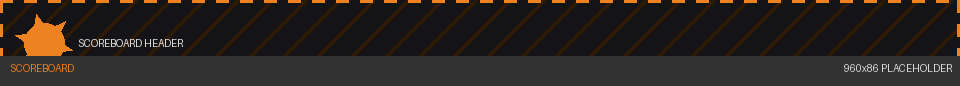
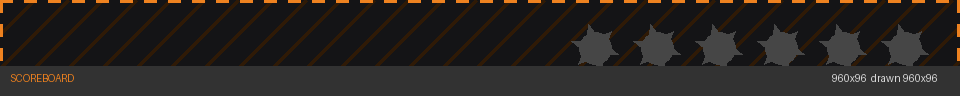
more stuff

diff --git a/tools/placeholders.py b/tools/placeholders.py
@@ -52,13 +52,16 @@ def caption(draw, w, h, title, spec, accent):
     draw.text((w - 8 - len(spec) * 6, h - 24), spec, fill=TEXT)
 
 
-def banner(path, title, accent, painter, w=640, h=300):
+def banner(path, title, accent, painter, w=820, h=264, drawn=None):
     img = Image.new("RGBA", (w, h), DARK)
     d = ImageDraw.Draw(img)
     stripes(d, w, h, (accent[0] // 5, accent[1] // 5, accent[2] // 5, 255))
     painter(d, w, h, accent)
     dashed(d, w, h, accent)
-    caption(d, w, h, title, "%dx%d PLACEHOLDER" % (w, h), accent)
+    spec = "%dx%d" % (w, h)
+    if drawn:
+        spec = spec + "  drawn %dx%d" % drawn
+    caption(d, w, h, title, spec, accent)
     img.save(path, optimize=True)
     print("  %-26s %dx%d" % (os.path.basename(path), w, h))
 
@@ -87,8 +90,8 @@ def paint_lots(d, w, h, accent):
 
 
 def paint_header(d, w, h, accent):
-    mine(d, 44, h // 2, 20, accent)
-    d.text((78, h // 2 - 6), "SCOREBOARD HEADER", fill=TEXT)
+    for i in range(6):
+        mine(d, int(w * 0.62 + i * 62), h // 2, 16, (70, 70, 70, 255))
 
 
 def icon(path, size, label, painter, accent):
@@ -128,12 +131,13 @@ def main():
     os.makedirs(UI, exist_ok=True)
 
     print("gametype banners")
-    banner(os.path.join(MATS, "gt_dm.png"), "DEATHMATCH", (238, 130, 32, 255), paint_dm)
-    banner(os.path.join(MATS, "gt_tdm.png"), "TEAM DEATHMATCH", (80, 160, 245, 255), paint_tdm)
-    banner(os.path.join(MATS, "gt_lots.png"), "LAST ONE TO STAND", (215, 70, 60, 255), paint_lots)
+    shot = (410, 132)
+    banner(os.path.join(MATS, "gt_dm.png"), "DEATHMATCH", (238, 130, 32, 255), paint_dm, drawn=shot)
+    banner(os.path.join(MATS, "gt_tdm.png"), "TEAM DEATHMATCH", (80, 160, 245, 255), paint_tdm, drawn=shot)
+    banner(os.path.join(MATS, "gt_lots.png"), "LAST ONE TO STAND", (215, 70, 60, 255), paint_lots, drawn=shot)
 
     print("interface")
-    banner(os.path.join(MATS, "sb_header.png"), "SCOREBOARD", (238, 130, 32, 255), paint_header, 960, 86)
+    banner(os.path.join(MATS, "sb_header.png"), "SCOREBOARD", (238, 130, 32, 255), paint_header, 960, 96, (960, 96))
 
     print("icons")
     icon(os.path.join(UI, "ph_avatar.png"), 64, "avatar", ic_avatar, (150, 150, 150, 255))
